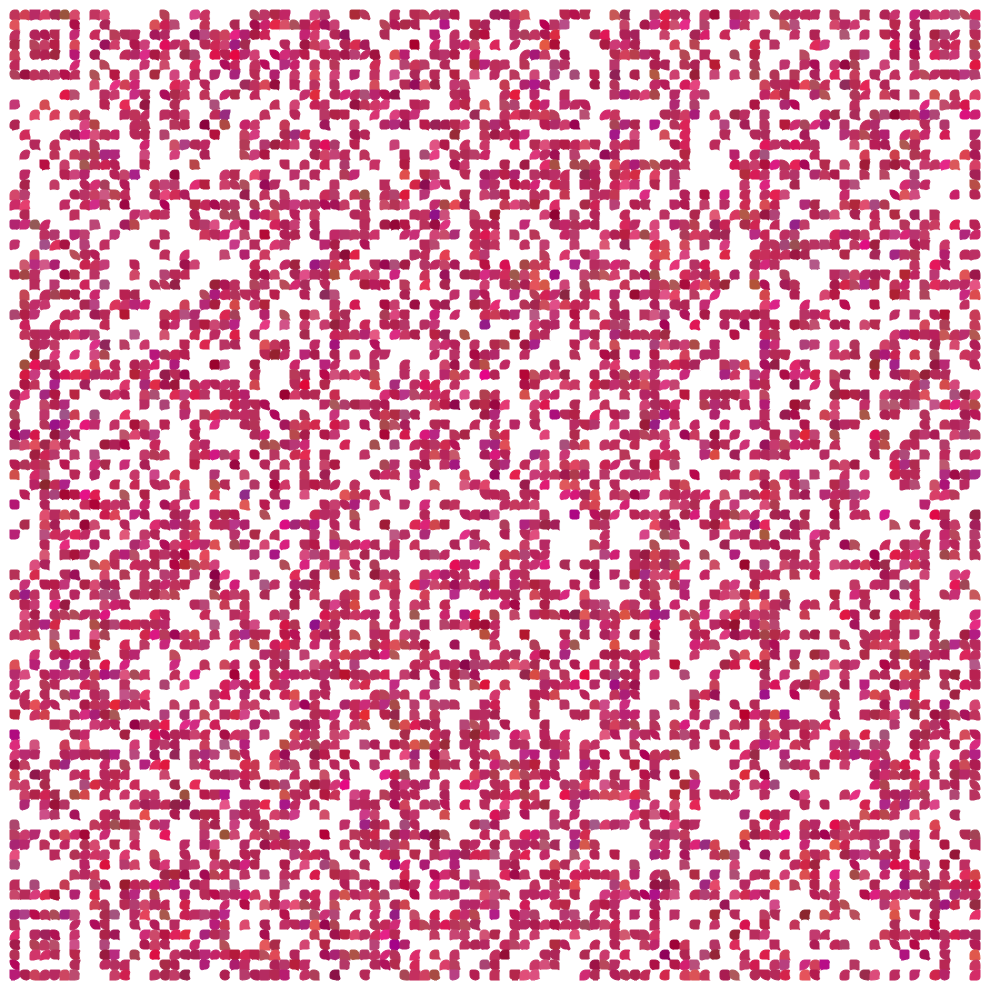
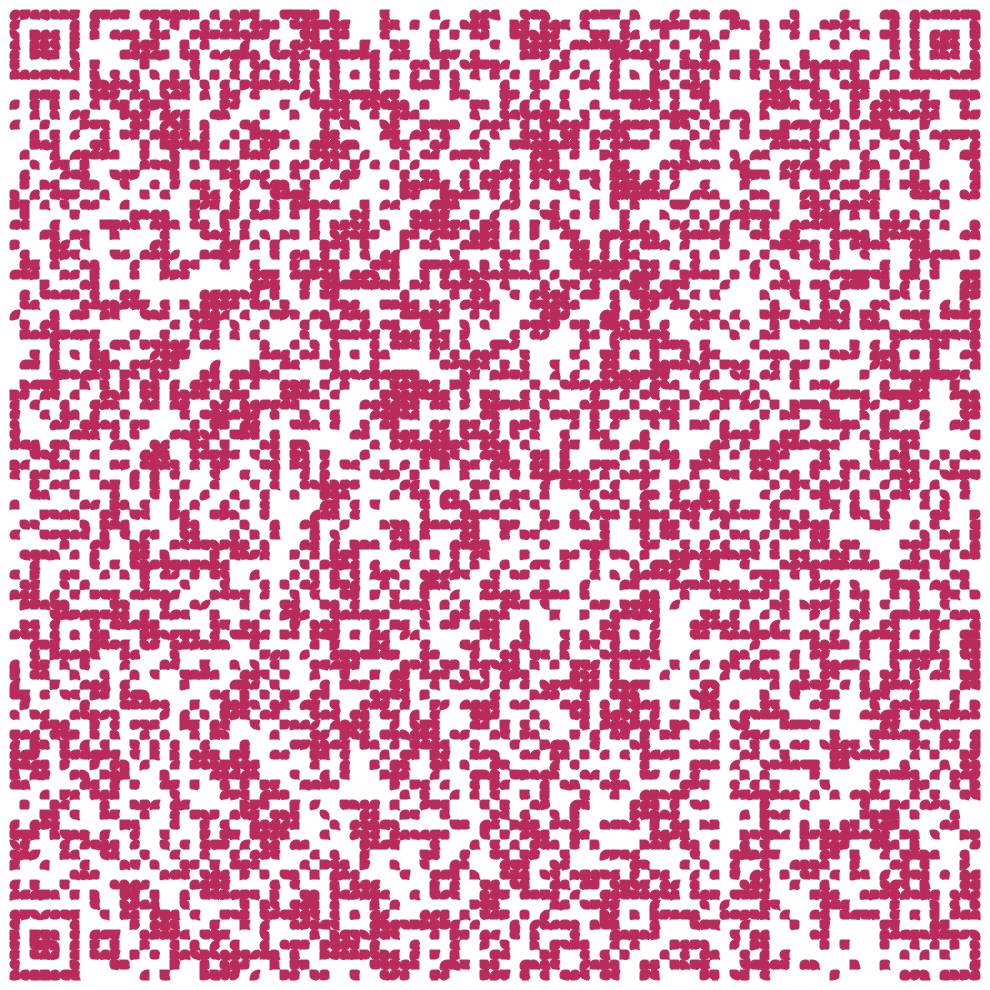
options

diff --git a/routes/api/QR-code/qrcode.js b/routes/api/QR-code/qrcode.js
@@ -106,7 +106,7 @@ function optimise() {
     }
     return (sel);
 }
-function createPNG(base_color) {
+function createPNG(base_color,contraste,standard) {
     const width = (dim+2)*DIM;
     const height = (dim+2)*DIM;
 
@@ -136,16 +136,21 @@ function createPNG(base_color) {
                 g=Math.floor(Math.random()*5+1);
                 let cRGB = hex2Rgb(base_color);
                 let coul = { r:Math.trunc(cRGB.r+g*((a>d)?a:-a)), g:Math.trunc(cRGB.g+g*((b>d)?b:-b)), b: Math.trunc(cRGB.b+g*((c>d)?c:-c)) };
-                color = rgb2Hex(coul.r,coul.g,coul.b);
+                if (contraste || standard) {
+                    color = base_color;
+                } else {
+                    color = rgb2Hex(coul.r,coul.g,coul.b);
+                }
                 switch(grille.grille[i][j]) {
                     case 1: color = '#ffffff'; break;
                     case -1: color = '#ff0000'; break;
                 }
                 context.fillStyle = color;
-               context.strokeStyle =color;
+                context.strokeStyle =color;
                 context.beginPath();
+                if (standard) {a=0;b=0;c=0;d=0}
                 context.roundRect((i+1)*(DIM), (j+1)*(DIM), DIM, DIM, [a,b,c,d]);
-             context.stroke();
+                context.stroke();
                 context.fill();
             }
         }
@@ -156,7 +161,7 @@ function createPNG(base_color) {
 }
 router.get("/vcard", async (req,res) => {
 
-    const {nom, prenom, genre, email, adresse, mobile, site, titre, fonction, organisation, QUAL, COLOR, WEB, PIXEL, LEVEL} = req.query;
+    const {nom, prenom, genre, email, adresse, mobile, site, titre, fonction, organisation, QUAL, COLOR, WEB, PIXEL, LEVEL, CONTRASTE, STANDARD} = req.query;
 
     let _texte = (`BEGIN:VCARD\nVERSION:4.0\nFN:${prenom}+${nom}\nN:${nom};${prenom};;${genre};\nORG:${organisation}\nEMAIL;TYPE=INTERNET:${email}\nTEL;TYPE=cell:${mobile}\nitem1.ADR:;${adresse}\nitem1.X-ABLabel:${site}\nitem2.URL:https://www.adisseo.com\nitem2.X-ABLabel:Web\nTITLE:${fonction}\nLANG:FR-fr
         ROLE:${titre}\nEND:VCARD\n`);
@@ -190,7 +195,7 @@ router.get("/vcard", async (req,res) => {
         level = optimise();
         createQR(level);
     }
-    image = createPNG(base_color);
+    image = createPNG(base_color,CONTRASTE&1,STANDARD&1);
     imageName = "image.png";
     if (WEB) {
         if (WEB==1) {
@@ -209,11 +214,15 @@ router.get("/vcard", async (req,res) => {
 router.get("/info", async (req,res) => {
    res.status(200).json({
         api: "QR-Code",
-        version: "1.0",
+        version: "1.1",
         auteur : "eCoucou",
         annee: 2025,
         QR_Code: {level: level, type: type, version: version, optimisation: option}}
     );
+});
+
+router.get("/doc", async (req,res) => {
+   res.status(200).send("<h1>API - QR-Code Documentation</h1><hr><div><a>/api/qrcode/vcard?></a><div>")
 });
 
 
